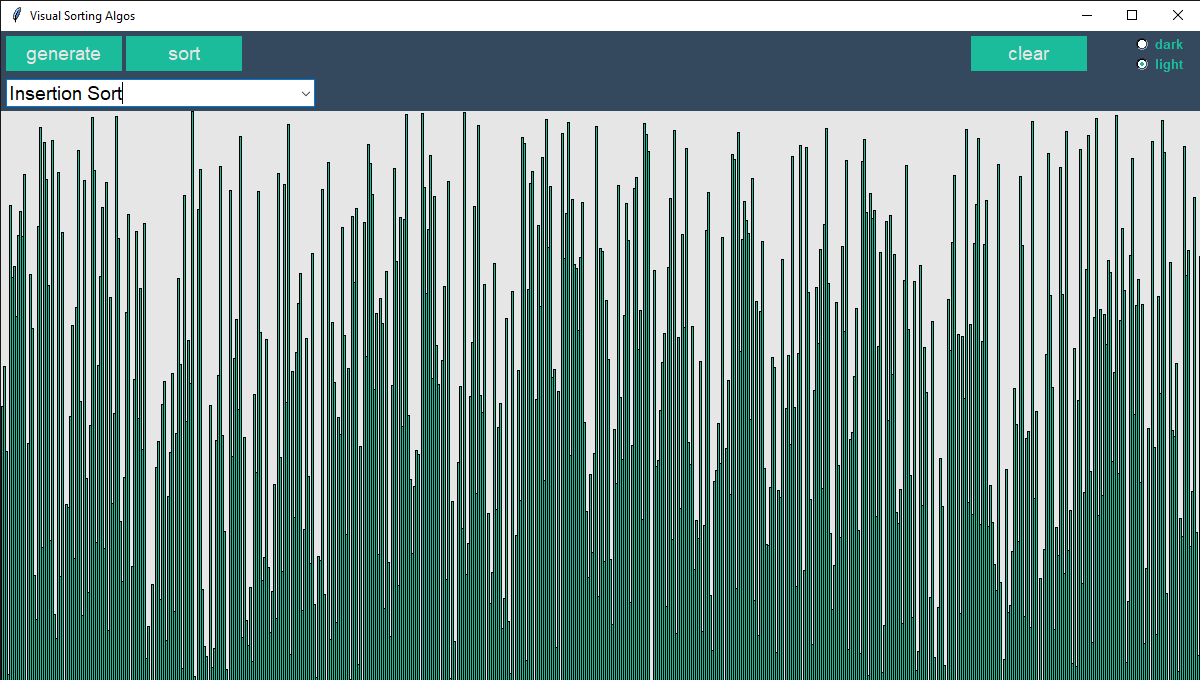
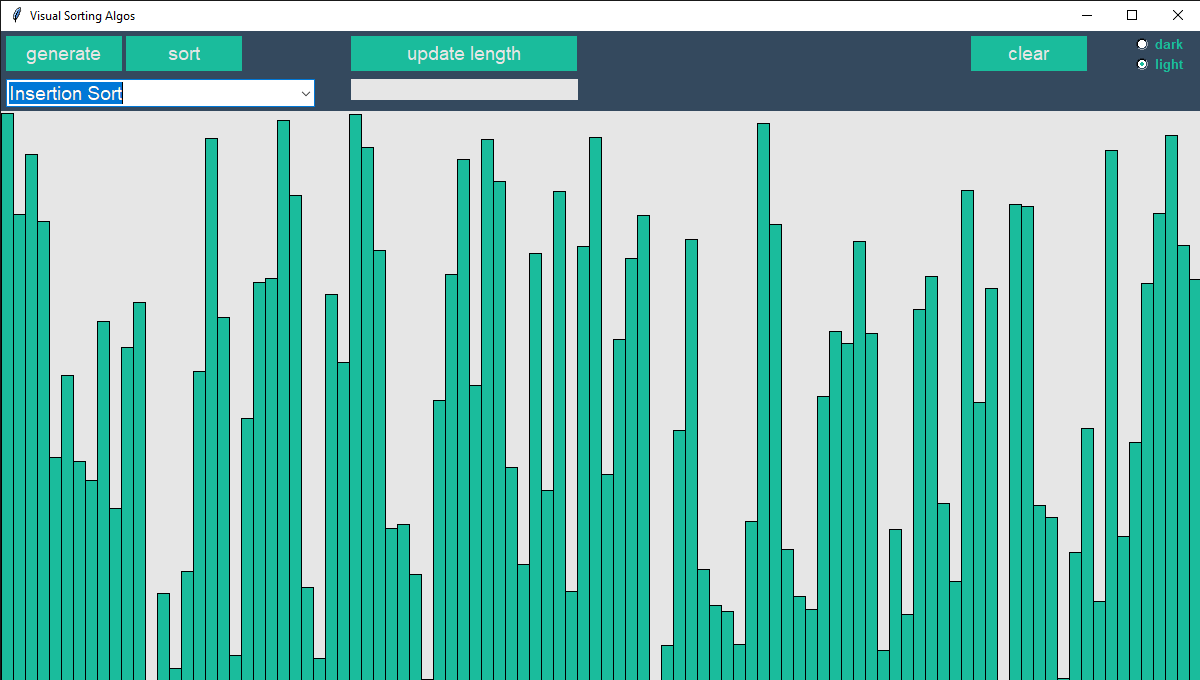
added array length input field

diff --git a/UI.py b/UI.py
@@ -6,6 +6,8 @@ class VisualSortingAlgos:
     def __init__(self):
         self.algos = {"Selection Sort": algorithms.SelectionSort(), "Bubble Sort": algorithms.BubbleSort(), "Insertion Sort": algorithms.InsertionSort(), "Merge Sort": algorithms.MergeSort(), "Quick Sort": algorithms.QuickSort()}
 
+        self.length = 100
+
         self.outlineColor = '#1e1e1e'
         self.mainScreenColor = '#e6e6e6'
         self.menuBarColor = '#34495e'
@@ -29,6 +31,8 @@ class VisualSortingAlgos:
         self.generateButton = Button(self.window, width=10, font=('arial', 14), text='generate', borderwidth=0, command=self.generateUnsortedList)
         self.sortButton = Button(self.window, width=10, font=('arial', 14), text='sort', borderwidth=0, command=self.sortList)   
         self.clearButton = Button(self.window, width=10, font=('arial', 14), text='clear', borderwidth=0, command=self.clearCanvas) 
+        self.changeLengthButton = Button(self.window, width=20, font=('arial', 14), text='update length', borderwidth=0, command=self.updateLength)  
+        self.lengthEntry = Entry(self.window, font=('arial', 13), width=25, borderwidth=0, justify=CENTER)
 
         self.colorScheme = IntVar()
         self.colorScheme.set(0)
@@ -42,6 +46,8 @@ class VisualSortingAlgos:
 
         self.generateButton.place(x=5,y=5)
         self.sortButton.place(x=125,y=5)
+        self.changeLengthButton.place(x=350,y=5)
+        self.lengthEntry.place(x=350, y=48)
         self.clearButton.place(x=970,y=5)
         self.darkRB.place(x=1130, y=0)
         self.lightRB.place(x=1130, y=20)
@@ -70,13 +76,19 @@ class VisualSortingAlgos:
         self.window.configure(bg=self.menuBarColor)
         self.canvas.configure(bg=self.mainScreenColor)
         self.generateButton.configure(fg=self.mainScreenColor, bg=self.buttonColor, activebackground=self.buttonColor, activeforeground=self.mainScreenColor)
+        self.changeLengthButton.configure(fg=self.mainScreenColor, bg=self.buttonColor, activebackground=self.buttonColor, activeforeground=self.mainScreenColor)
+        self.lengthEntry.configure(bg=self.mainScreenColor, fg=self.outlineColor, insertbackground=self.outlineColor)
         self.sortButton.configure(fg=self.mainScreenColor, bg=self.buttonColor, activebackground=self.buttonColor, activeforeground=self.mainScreenColor)
         self.clearButton.configure(fg=self.mainScreenColor, bg=self.buttonColor, activebackground=self.buttonColor, activeforeground=self.mainScreenColor)
         self.darkRB.configure(bg=self.menuBarColor, fg=self.buttonColor, activebackground=self.menuBarColor, activeforeground=self.buttonColor)
         self.lightRB.configure(bg=self.menuBarColor, fg=self.buttonColor, activebackground=self.menuBarColor, activeforeground=self.buttonColor)
         
+    def updateLength(self):
+        self.length = int(self.lengthEntry.get())       
+
     def generateUnsortedList(self):
         algo = self.algos[self.algoPicker.get()]
+        algo.change_num_elements(self.length)
         algo.reset(self.canvas, self.mainScreenColor, self.linesColor, self.canvasHeight, self.canvasWidth, self.swap1Color, self.swap2Color)
         # self.update(algo)
 

diff --git a/algorithms.py b/algorithms.py
@@ -2,13 +2,17 @@ import random
 import time
 
 class Algorithm:
-    def __init__(self, name):
-        self.array = random.sample(range(600), 600)
+    def __init__(self, name, elements=600):
+        self.elements = elements
+        self.array = random.sample(range(600), self.elements)
         self.name = name
 
     def reset(self, canvas, mainScreenColor, linesColor, canvasHeight, canvasWidth, swap1Color, swap2Color):
-        self.array = random.sample(range(600), 600)
+        self.array = random.sample(range(600), self.elements)
         self.update(canvas, mainScreenColor, linesColor, canvasHeight, canvasWidth, swap1Color, swap2Color)
+
+    def change_num_elements(self, elements):
+        self.elements = elements
 
     def update(self, canvas, mainScreenColor, linesColor, canvasHeight, canvasWidth, swap1Color, swap2Color, swap1=None, swap2=None, ):
         canvas.configure(bg=mainScreenColor)
